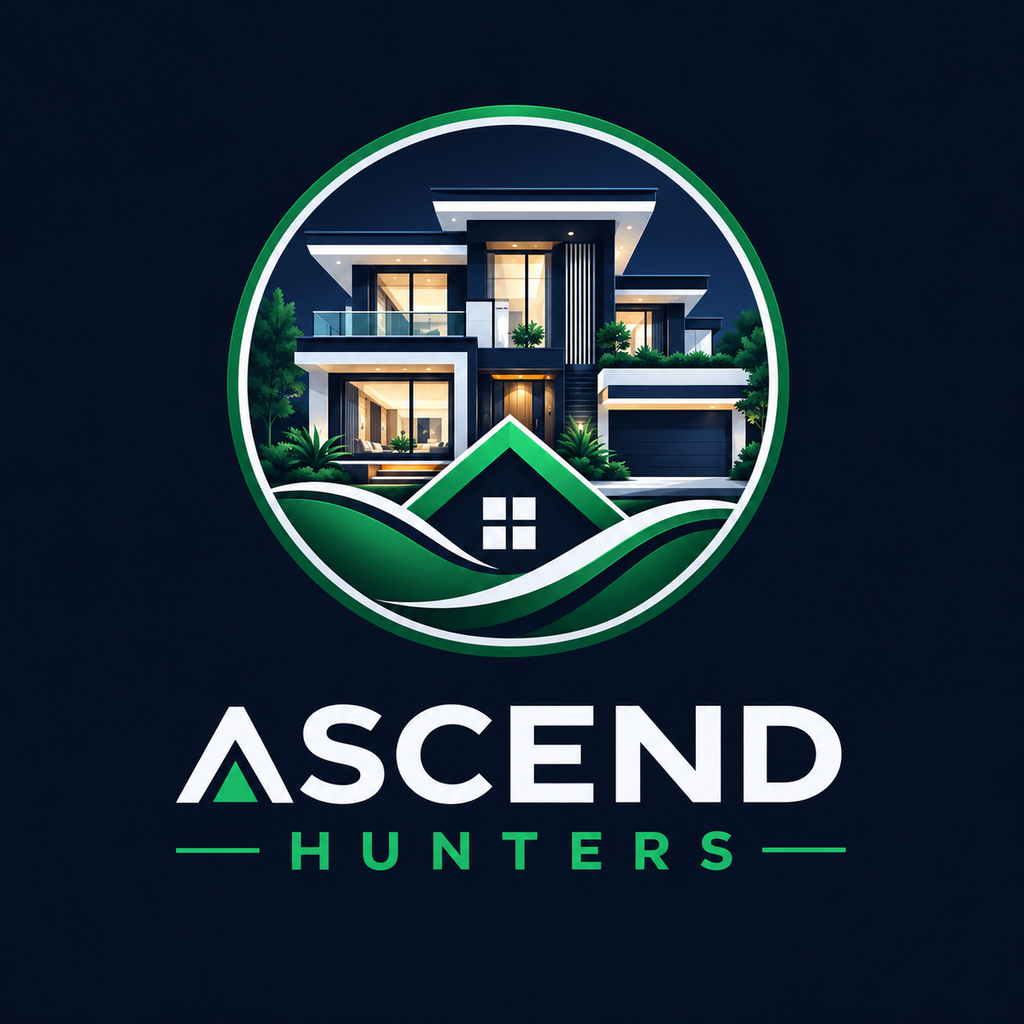
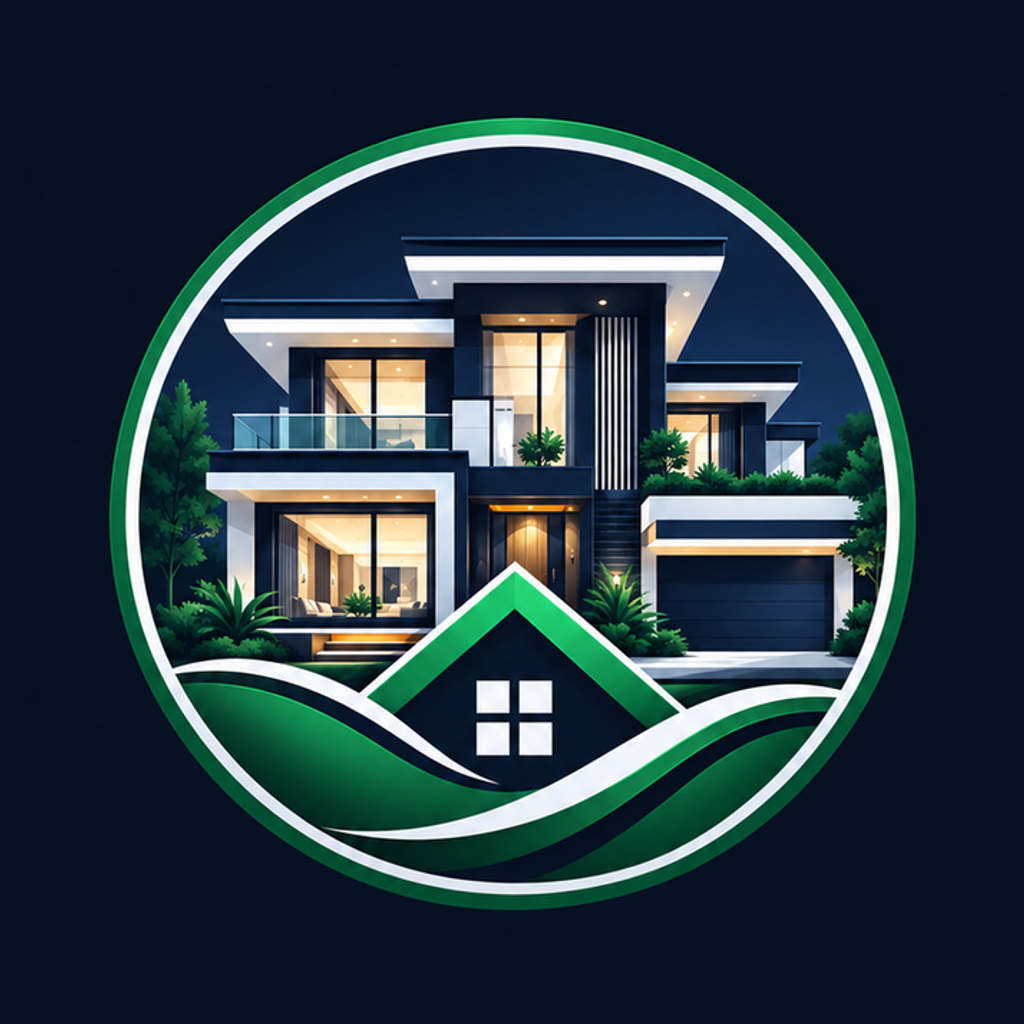
Adopt the badge artwork everywhere and hold the first frame on an app-start loader
- Every file in assets/ now comes from the one wordmark-free badge:
  icon.png (opaque, badge fills 79%), adaptive-icon.png (transparent, 58% —
  inside Android's 66% safe zone), splash.png (transparent, 70%),
  notification-icon.png (96px white silhouette of the badge only — the old
  file still carried the wordmark, which turns into an illegible smear once
  Android tints and masks it), and loader.png (512px transparent, for the
  new start screen; nothing in app.json reads it)
- New src/components/common/AppStartLoader.tsx renders that badge on the
  launch colour (#061023, the same value app.json uses for the native
  splash) with a spinner, and App.tsx holds it while AuthContext resolves
  the session so a signed-in user never sees the auth screen flash by
- ANDROID_BUILD.md §8 states what each asset is for, that all five now have
  a consumer, and that the loader screen hardcodes the launch colour
- The superseded new-piece.png review copy and the Desktop previews are gone

Verified: expo prebuild --platform android --clean exit 0, with the
generated splashscreen_logo.png / notification_icon.png rendering the new
badge (checked per-density); tsc 0; eslint 0 problems; node --test 210/210;
expo-doctor 21/21; expo export --platform web exit 0.

🤖 Generated with Codebuff

diff --git a/App.tsx b/App.tsx
@@ -2,7 +2,7 @@ import React from 'react';
 import { StatusBar, LogBox } from 'react-native';
 import { SafeAreaProvider } from 'react-native-safe-area-context';
 import { GestureHandlerRootView } from 'react-native-gesture-handler';
-import { AuthProvider } from './src/context/AuthContext';
+import { AuthProvider, useAuthContext } from './src/context/AuthContext';
 import { ThemeProvider, useTheme } from './src/context/ThemeContext';
 import { CurrencyProvider } from './src/context/CurrencyContext';
 import { LanguageProvider } from './src/context/LanguageContext';
@@ -12,6 +12,7 @@ import CookieConsentBanner from './src/components/common/CookieConsentBanner';
 import NoticeBanner from './src/components/common/NoticeBanner';
 import ToastHost from './src/components/common/ToastHost';
 import AppIconBadgeSync from './src/components/common/AppIconBadgeSync';
+import AppStartLoader from './src/components/common/AppStartLoader';
 import WebFrame from './src/components/common/WebFrame';
 import { initSentry } from './src/utils/monitoring/sentry';
 import { validateEnv } from './src/utils/env';
@@ -23,6 +24,9 @@ LogBox.ignoreLogs([
 
 function AppContent() {
   const { colors, isDark } = useTheme();
+  // Hold the first frame on the launch screen until AuthContext has resolved
+  // the session, so the app never flashes the auth screen to a signed-in user.
+  const { loading: authLoading } = useAuthContext();
 
   return (
     <>
@@ -30,12 +34,18 @@ function AppContent() {
         barStyle={isDark ? 'light-content' : 'dark-content'}
         backgroundColor={colors.background}
       />
-      <AppNavigator />
-      {/* Keeps the home-screen icon badge in sync with unread notifications. */}
-      <AppIconBadgeSync />
-      <CookieConsentBanner />
-      <NoticeBanner />
-      <ToastHost />
+      {authLoading ? (
+        <AppStartLoader />
+      ) : (
+        <>
+          <AppNavigator />
+          {/* Keeps the home-screen icon badge in sync with unread notifications. */}
+          <AppIconBadgeSync />
+          <CookieConsentBanner />
+          <NoticeBanner />
+          <ToastHost />
+        </>
+      )}
     </>
   );
 }

diff --git a/src/components/common/AppStartLoader.tsx b/src/components/common/AppStartLoader.tsx
@@ -1,0 +1,45 @@
+import React from 'react';
+import { ActivityIndicator, Image, StyleSheet, View } from 'react-native';
+
+/**
+ * App-start screen: the brand mark on the launch background.
+ *
+ * Shown between the native splash screen (`expo-splash-screen`, configured in
+ * `app.json`) and the first navigator frame — i.e. while `AuthContext`
+ * resolves the existing session. The background is fixed to the launch colour
+ * instead of taking it from the theme, so the native splash cross-fades into
+ * this screen instead of flashing a light frame for dark-theme users.
+ */
+const LAUNCH_BACKGROUND = '#061023'; // keep in sync with app.json splash/adaptiveIcon
+
+export default function AppStartLoader() {
+  return (
+    <View style={styles.screen}>
+      <Image
+        source={require('../../../assets/loader.png')}
+        style={styles.mark}
+        resizeMode="contain"
+        accessible={false}
+        importantForAccessibility="no-hide-descendants"
+      />
+      <ActivityIndicator size="large" color="#FFFFFF" style={styles.spinner} />
+    </View>
+  );
+}
+
+const styles = StyleSheet.create({
+  screen: {
+    flex: 1,
+    alignItems: 'center',
+    justifyContent: 'center',
+    backgroundColor: LAUNCH_BACKGROUND,
+  },
+  /** Matches the splash image width configured in app.json (220). */
+  mark: {
+    width: 220,
+    height: 220,
+  },
+  spinner: {
+    marginTop: 24,
+  },
+});

diff --git a/ANDROID_BUILD.md b/ANDROID_BUILD.md
@@ -337,14 +337,19 @@ build is the file to hand to testers.
 | `android.package` | `com.househunter.app` | Google Play identity — changing it later means a new listing and new OAuth/Maps registrations |
 | `android.versionCode` | `1` | local default; the EAS value is authoritative (see above) |
 | `android.permissions` | location (fine/coarse), camera, external storage | `expo-location`, `expo-image-picker`, `expo-notifications` and `expo-calendar` add their own permissions (notifications, calendar, audio, vibrate, internet) during prebuild |
-| `icon` | `./assets/icon.png` | **1024×1024** launcher icon (dark `#061023` logo) |
-| `android.adaptiveIcon` | `./assets/adaptive-icon.png` + `#061023` | **1024×1024 with transparency**, artwork inside the 66 % safe zone so it survives every Android 8+ mask |
-| `expo-splash-screen` plugin | `./assets/splash.png`, `imageWidth: 220`, `#061023` | splash logo on the brand background colour |
+| `icon` | `./assets/icon.png` | **1024×1024** launcher icon — the badge mark on the opaque `#061023` brand background, filling ~79 % of the canvas |
+| `android.adaptiveIcon` | `./assets/adaptive-icon.png` + `#061023` | **1024×1024 with transparency**, badge at 58 % of the canvas so it survives every Android 8+ mask (66 % safe zone) |
+| `expo-splash-screen` plugin | `./assets/splash.png`, `imageWidth: 220`, `#061023` | transparent badge at 70 % of the canvas, centred on the brand background colour |
 | `expo-notifications` plugin | `./assets/notification-icon.png`, color `#22C55E` | **96×96 white-on-transparent silhouette** (Android tints and masks it) |
+| *(JS)* app-start screen | `./assets/loader.png` via `src/components/common/AppStartLoader.tsx` | **512×512** transparent badge; rendered on the launch colour while `AuthContext` resolves the session, so the native splash cross-fades instead of flashing |
 | `@sentry/react-native` plugin | *not configured* | deliberately absent from `plugins` — crash reporting still runs, JS source-map upload is off (see *Sentry source maps*) |
 
-`assets/loader.png` is not referenced by any config (kept in sync with the new
-artwork, but unused — safe to delete).
+All five files in `assets/` now have a consumer: the four in the table above plus
+`loader.png`, which only the app-start screen references (nothing in `app.json` reads
+it, so it is not installed as a native resource). The artwork itself is one source —
+the wordmark-free badge — so launcher icon, adaptive icon, splash, notification
+silhouette and the in-app loader all show the same mark. `AppStartLoader` hardcodes
+`#061023`; if you change the splash background, change it there too.
 
 > The splash and adaptive-icon background colour (`#061023`) is sampled from the brand
 > artwork's own background. If you want the old white splash instead, change
